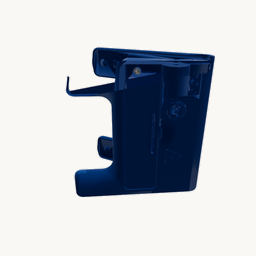
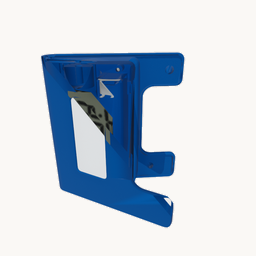
blue_alarm thumbnail: pose 011 + front-facing camera override
- render_thumbnails.py: per-object POSE_OVERRIDE + VIEW_OVERRIDE (blue_alarm -> pose
  011, flipped camera to show the display-window front); default bg now page cream;
  failures raise instead of being swallowed.
- table_top.py: object-name labels above each pose (top-level scene path so the
  posed frame doesn't double-transform them).
- Cache-bust v5.

diff --git a/docs/gallery.html b/docs/gallery.html
@@ -222,7 +222,7 @@
         card.onkeydown = (e) => { if (e.key === 'Enter') go(); };
 
         const thumb = obj.thumb
-          ? `<img src="objects/${obj.id}/thumb.png?v=4" alt="${escapeHtml(obj.label)}" loading="lazy" onerror="this.parentElement.innerHTML='<div class=placeholder>&#9645;</div>'">`
+          ? `<img src="objects/${obj.id}/thumb.png?v=5" alt="${escapeHtml(obj.label)}" loading="lazy" onerror="this.parentElement.innerHTML='<div class=placeholder>&#9645;</div>'">`
           : '<div class="placeholder">&#9645;</div>';
         card.innerHTML = `
           <div class="frame">${thumb}</div>

diff --git a/wiki/gallery.html b/wiki/gallery.html
@@ -222,7 +222,7 @@
         card.onkeydown = (e) => { if (e.key === 'Enter') go(); };
 
         const thumb = obj.thumb
-          ? `<img src="objects/${obj.id}/thumb.png?v=4" alt="${escapeHtml(obj.label)}" loading="lazy" onerror="this.parentElement.innerHTML='<div class=placeholder>&#9645;</div>'">`
+          ? `<img src="objects/${obj.id}/thumb.png?v=5" alt="${escapeHtml(obj.label)}" loading="lazy" onerror="this.parentElement.innerHTML='<div class=placeholder>&#9645;</div>'">`
           : '<div class="placeholder">&#9645;</div>';
         card.innerHTML = `
           <div class="frame">${thumb}</div>

diff --git a/wiki/render_thumbnails.py b/wiki/render_thumbnails.py
@@ -23,6 +23,18 @@ from object_processing.visualization import render as R
 
 _VIEW_DIR = np.array([0.65, -1.0, 0.55])   # match render.py's 3/4 view
 
+# Per-object pose override: use a specific tabletop pose (.npy filename stem in
+# processed_data/info/tabletop/) instead of the auto-selected tallest pose.
+POSE_OVERRIDE = {
+    "blue_alarm": "011",
+}
+
+# Per-object camera-direction override (object frame, +z up), for objects whose
+# default 3/4 view faces an uninteresting side.
+VIEW_OVERRIDE = {
+    "blue_alarm": np.array([-0.65, 1.0, 0.55]),   # show the display-window front
+}
+
 
 def standing_transform(info):
     """4x4 object->table transform for the most-upright stable pose, or None."""
@@ -45,7 +57,7 @@ def standing_transform(info):
     return best
 
 
-def render_thumb(o3d, obj_path, P, size, bg_rgb, base_color=(0.85, 0.86, 0.88)):
+def render_thumb(o3d, obj_path, P, size, bg_rgb, view_dir=_VIEW_DIR, base_color=(0.85, 0.86, 0.88)):
     """Render an object's OWN materials (handles multi-texture meshes), in the
     standing pose ``P`` (4x4 or None), on a flat ``bg_rgb`` background."""
     model = o3d.io.read_triangle_model(obj_path)
@@ -78,7 +90,7 @@ def render_thumb(o3d, obj_path, P, size, bg_rgb, base_color=(0.85, 0.86, 0.88)):
     mn, mx = pts.min(0), pts.max(0)
     center = ((mn + mx) / 2).tolist()
     radius = float(np.linalg.norm(mx - mn) / 2)
-    eye = np.asarray(center) + _VIEW_DIR / np.linalg.norm(_VIEW_DIR) * radius * 2.3
+    eye = np.asarray(center) + np.asarray(view_dir) / np.linalg.norm(view_dir) * radius * 2.3
     rnd.setup_camera(55.0, center, eye.tolist(), [0.0, 0.0, 1.0])
     img = np.asarray(rnd.render_to_image()).copy()
     del rnd
@@ -91,7 +103,7 @@ def main():
     ap.add_argument("output", help="dir; writes <output>/objects/<name>/thumb.png")
     ap.add_argument("--only", help="comma-separated object names")
     ap.add_argument("--info-root", default="docs", help="where objects/<name>/info.json live")
-    ap.add_argument("--bg", default="595c61", help="background hex (no #)")
+    ap.add_argument("--bg", default="faf8f5", help="background hex (no #), default = page cream")
     ap.add_argument("--size", type=int, default=256)
     ap.add_argument("--ss", type=int, default=3, help="supersample factor")
     args = ap.parse_args()
@@ -102,7 +114,7 @@ def main():
     names = sorted(d for d in os.listdir(args.object_root)
                    if os.path.isdir(os.path.join(args.object_root, d)))
 
-    ok = fail = 0
+    n = 0
     for name in names:
         if only and name not in only:
             continue
@@ -112,30 +124,33 @@ def main():
             cands = [f for f in os.listdir(os.path.join(base, "raw_mesh"))
                      if f.lower().endswith(".obj")] if os.path.isdir(os.path.join(base, "raw_mesh")) else []
             if not cands:
-                print(f"  SKIP {name}: no raw_mesh obj"); continue
+                raise FileNotFoundError(f"{name}: no .obj in raw_mesh/")
             obj = os.path.join(base, "raw_mesh", cands[0])
-        try:
+        # No try/except: let any failure raise with its full traceback rather than
+        # swallowing it into a FAIL/SKIP line.
+        if name in POSE_OVERRIDE:
+            P = np.load(os.path.join(base, "processed_data", "info", "tabletop",
+                                     f"{POSE_OVERRIDE[name]}.npy"))
+        else:
             P = None
             info_path = os.path.join(args.info_root, "objects", name, "info.json")
             if os.path.exists(info_path):
                 P = standing_transform(json.load(open(info_path)))
-            img = render_thumb(o3d, obj, P, args.size * args.ss, bg)
-            thumb = Image.fromarray(img).resize((args.size, args.size), Image.LANCZOS)
-            # The renderer's tone-mapping shifts the flat background a few levels;
-            # flood-fill the corners back to the exact target so it matches the page.
-            tgt = tuple(int(round(c * 255)) for c in bg)
-            w, h = thumb.size
-            for seed in [(0, 0), (w - 1, 0), (0, h - 1), (w - 1, h - 1)]:
-                ImageDraw.floodfill(thumb, seed, tgt, thresh=18)
-            out_dir = os.path.join(args.output, "objects", name)
-            os.makedirs(out_dir, exist_ok=True)
-            thumb.save(os.path.join(out_dir, "thumb.png"))
-            print(f"  OK   {name}")
-            ok += 1
-        except Exception as e:
-            print(f"  FAIL {name}: {e}")
-            fail += 1
-    print(f"\nDone: {ok} rendered, {fail} failed")
+        img = render_thumb(o3d, obj, P, args.size * args.ss, bg,
+                           view_dir=VIEW_OVERRIDE.get(name, _VIEW_DIR))
+        thumb = Image.fromarray(img).resize((args.size, args.size), Image.LANCZOS)
+        # The renderer's tone-mapping shifts the flat background a few levels;
+        # flood-fill the corners back to the exact target so it matches the page.
+        tgt = tuple(int(round(c * 255)) for c in bg)
+        w, h = thumb.size
+        for seed in [(0, 0), (w - 1, 0), (0, h - 1), (w - 1, h - 1)]:
+            ImageDraw.floodfill(thumb, seed, tgt, thresh=18)
+        out_dir = os.path.join(args.output, "objects", name)
+        os.makedirs(out_dir, exist_ok=True)
+        thumb.save(os.path.join(out_dir, "thumb.png"))
+        print(f"  OK   {name}")
+        n += 1
+    print(f"\nDone: {n} rendered")
 
 
 if __name__ == "__main__":

diff --git a/src/viewers/table_top.py b/src/viewers/table_top.py
@@ -115,12 +115,33 @@ def _draw_obb_and_axes(fp, corners, edges, axis_len, obb_color=COLOR_OBB):
         )
 
 
+_name_label_handles = []
+
+
+def _add_name_label(label_id, text, pose, obb_extents):
+    """Floating text label above an instance. Placed at the world top level (NOT
+    under the posed object frame, which would double-transform the position —
+    matching how AutoDex adds scene labels)."""
+    z = float(pose[2, 3]) + float(np.max(obb_extents)) + 0.02
+    h = vis.server.scene.add_label(
+        f"/labels/{label_id}", text=text,
+        position=(float(pose[0, 3]), float(pose[1, 3]), z),
+    )
+    _name_label_handles.append(h)
+
+
 def clear_scene():
     for name in list(vis.obj_dict.keys()):
         try:
             vis.obj_dict[name]['frame'].remove()
         except Exception:
             pass
+    for h in _name_label_handles:
+        try:
+            h.remove()
+        except Exception:
+            pass
+    _name_label_handles.clear()
     vis.obj_dict.clear()
     vis.frame_nodes.clear()
     vis.clear_traj()
@@ -147,6 +168,7 @@ def load_static(obj_name):
         name = os.path.basename(path).removesuffix(".npy")
         vis.add_object(name, mesh, obj_T=pose)
         _draw_obb_and_axes(f"/objects/{name}_frame", corners, edges, axis_len)
+        _add_name_label(name, f"{obj_name} · {name}", pose, obb_extents)
     print(f"Loaded: {obj_name}  ({len(poses)} stable poses)")
 
 
@@ -181,6 +203,7 @@ def load_motion(obj_name):
 
         fp = f"/objects/{name}_frame"
         _draw_obb_and_axes(fp, corners, edges, axis_len, obb_color=status_color)
+        _add_name_label(name, f"{obj_name} · {name}", se3[0], obb_extents)
 
         info_path = path.replace("_traj.npy", "_info.json")
         if os.path.exists(info_path):
